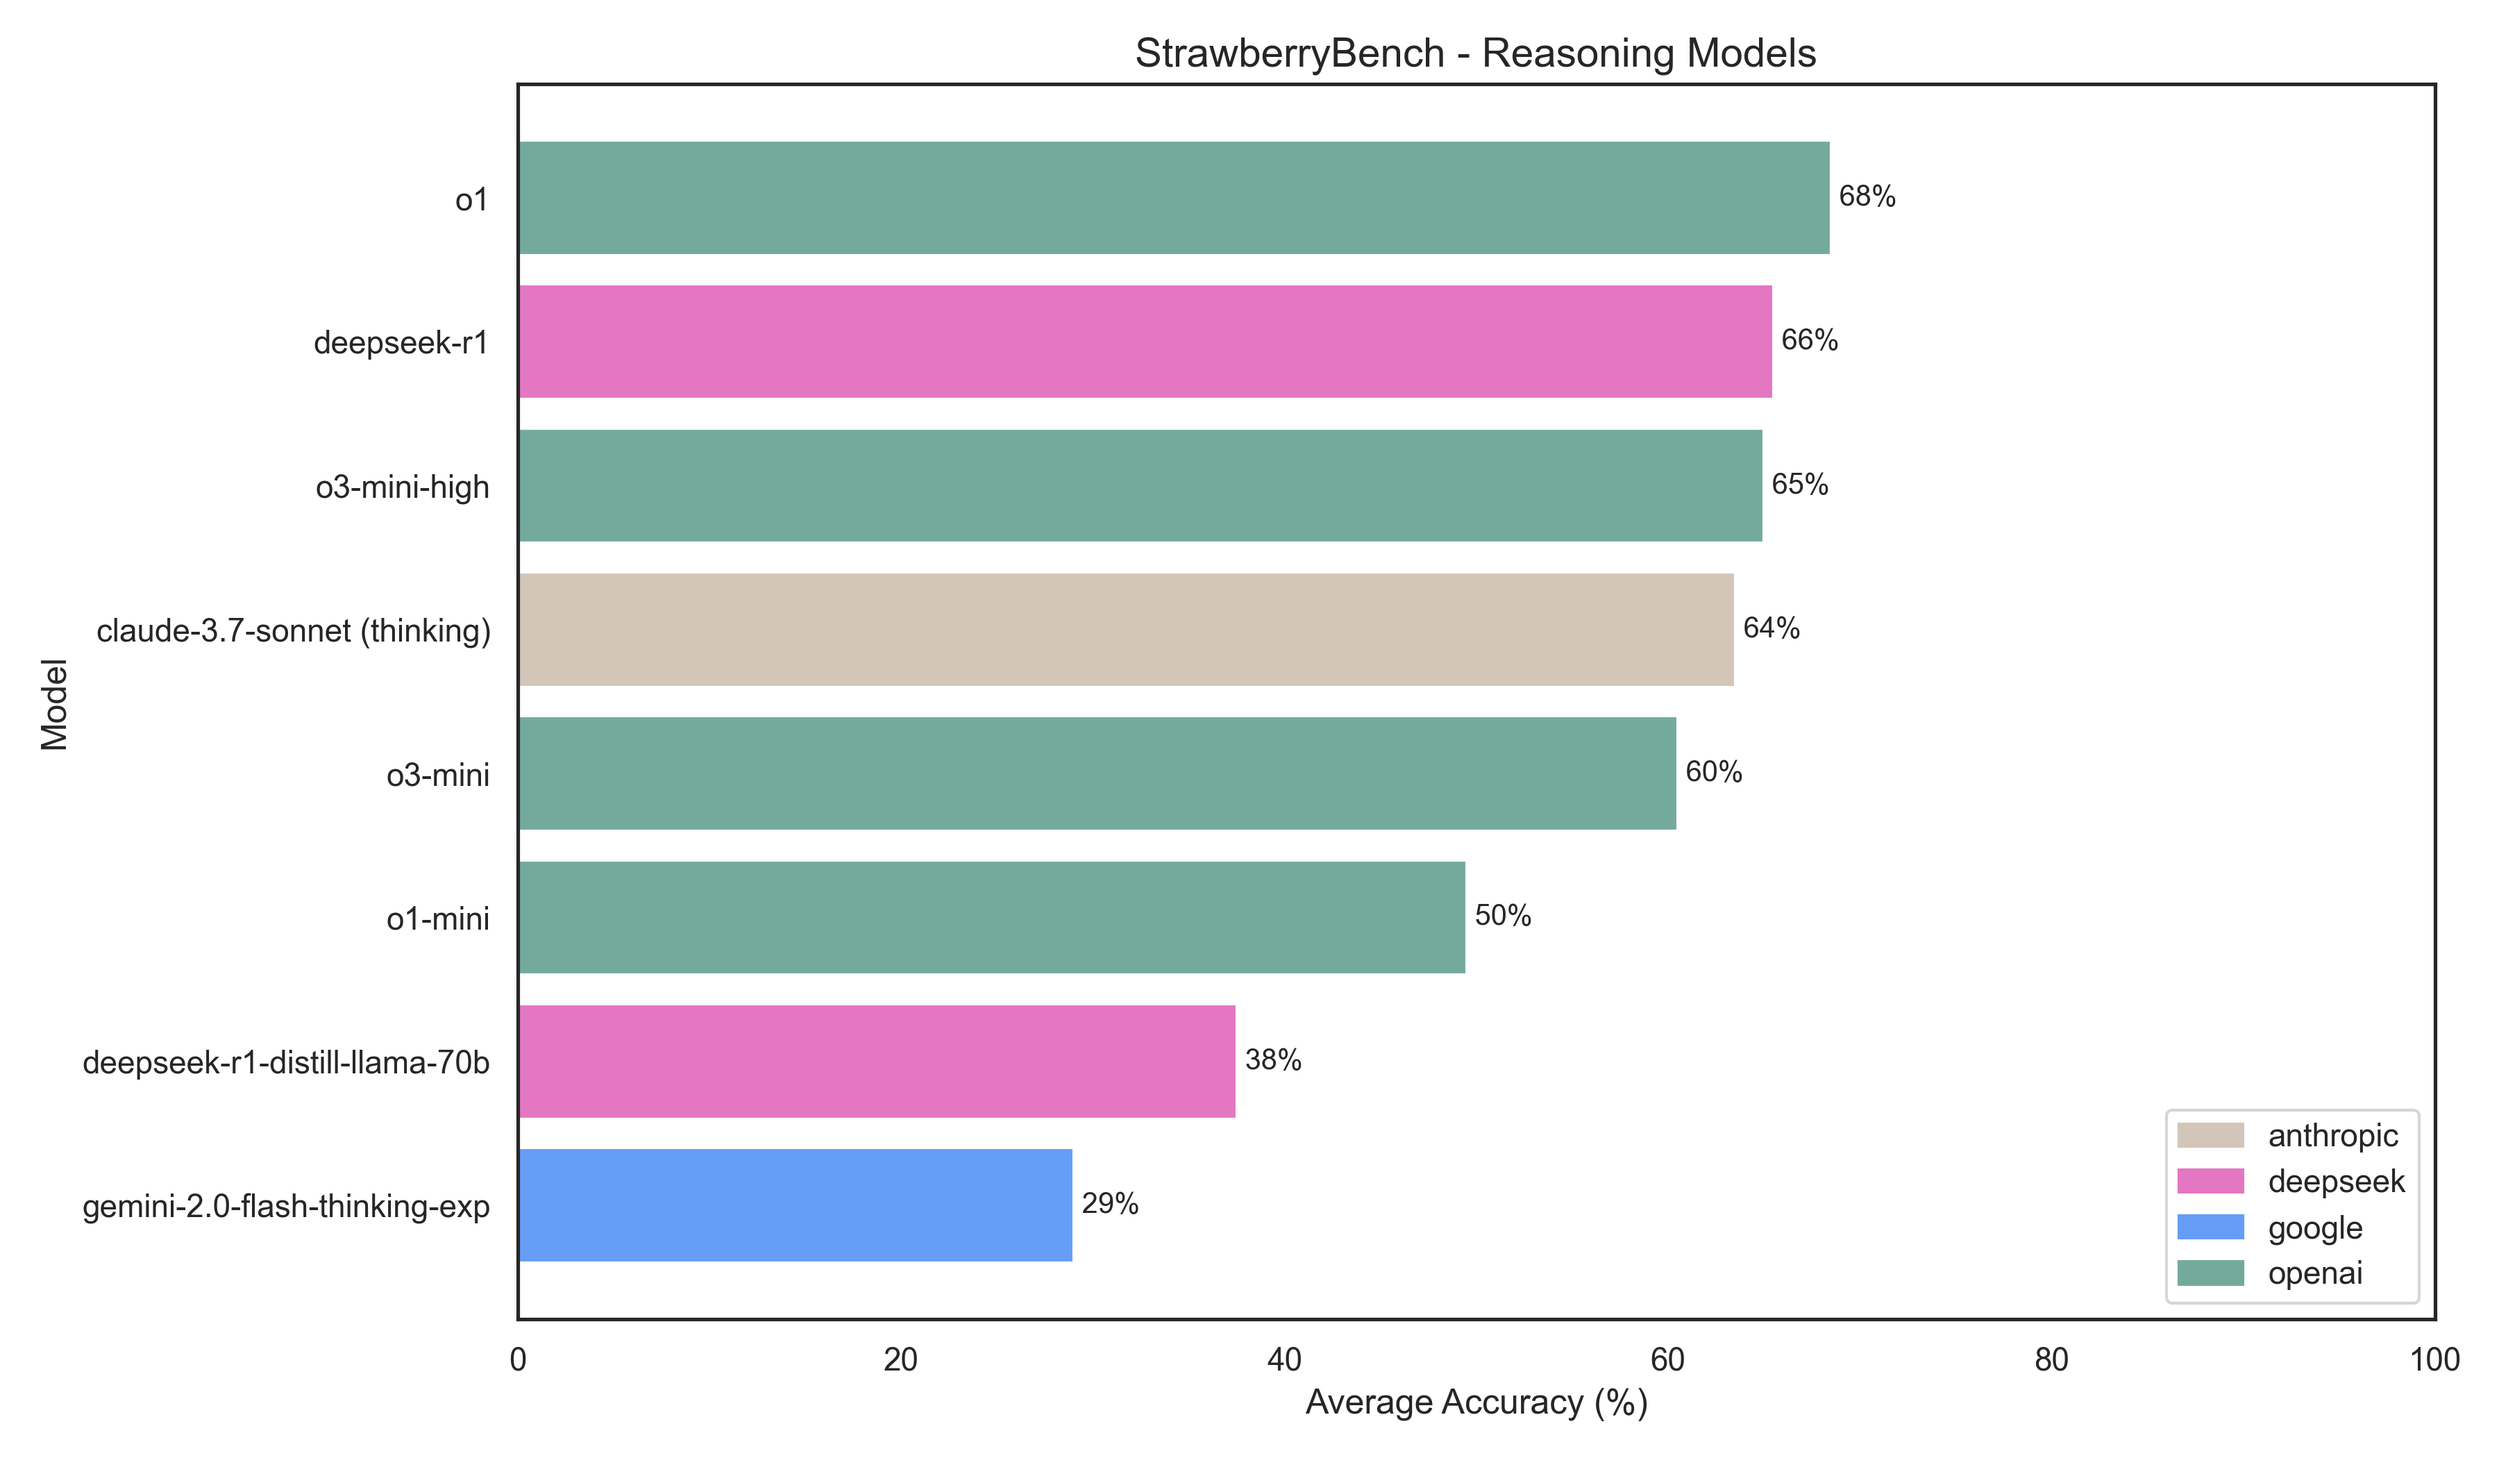
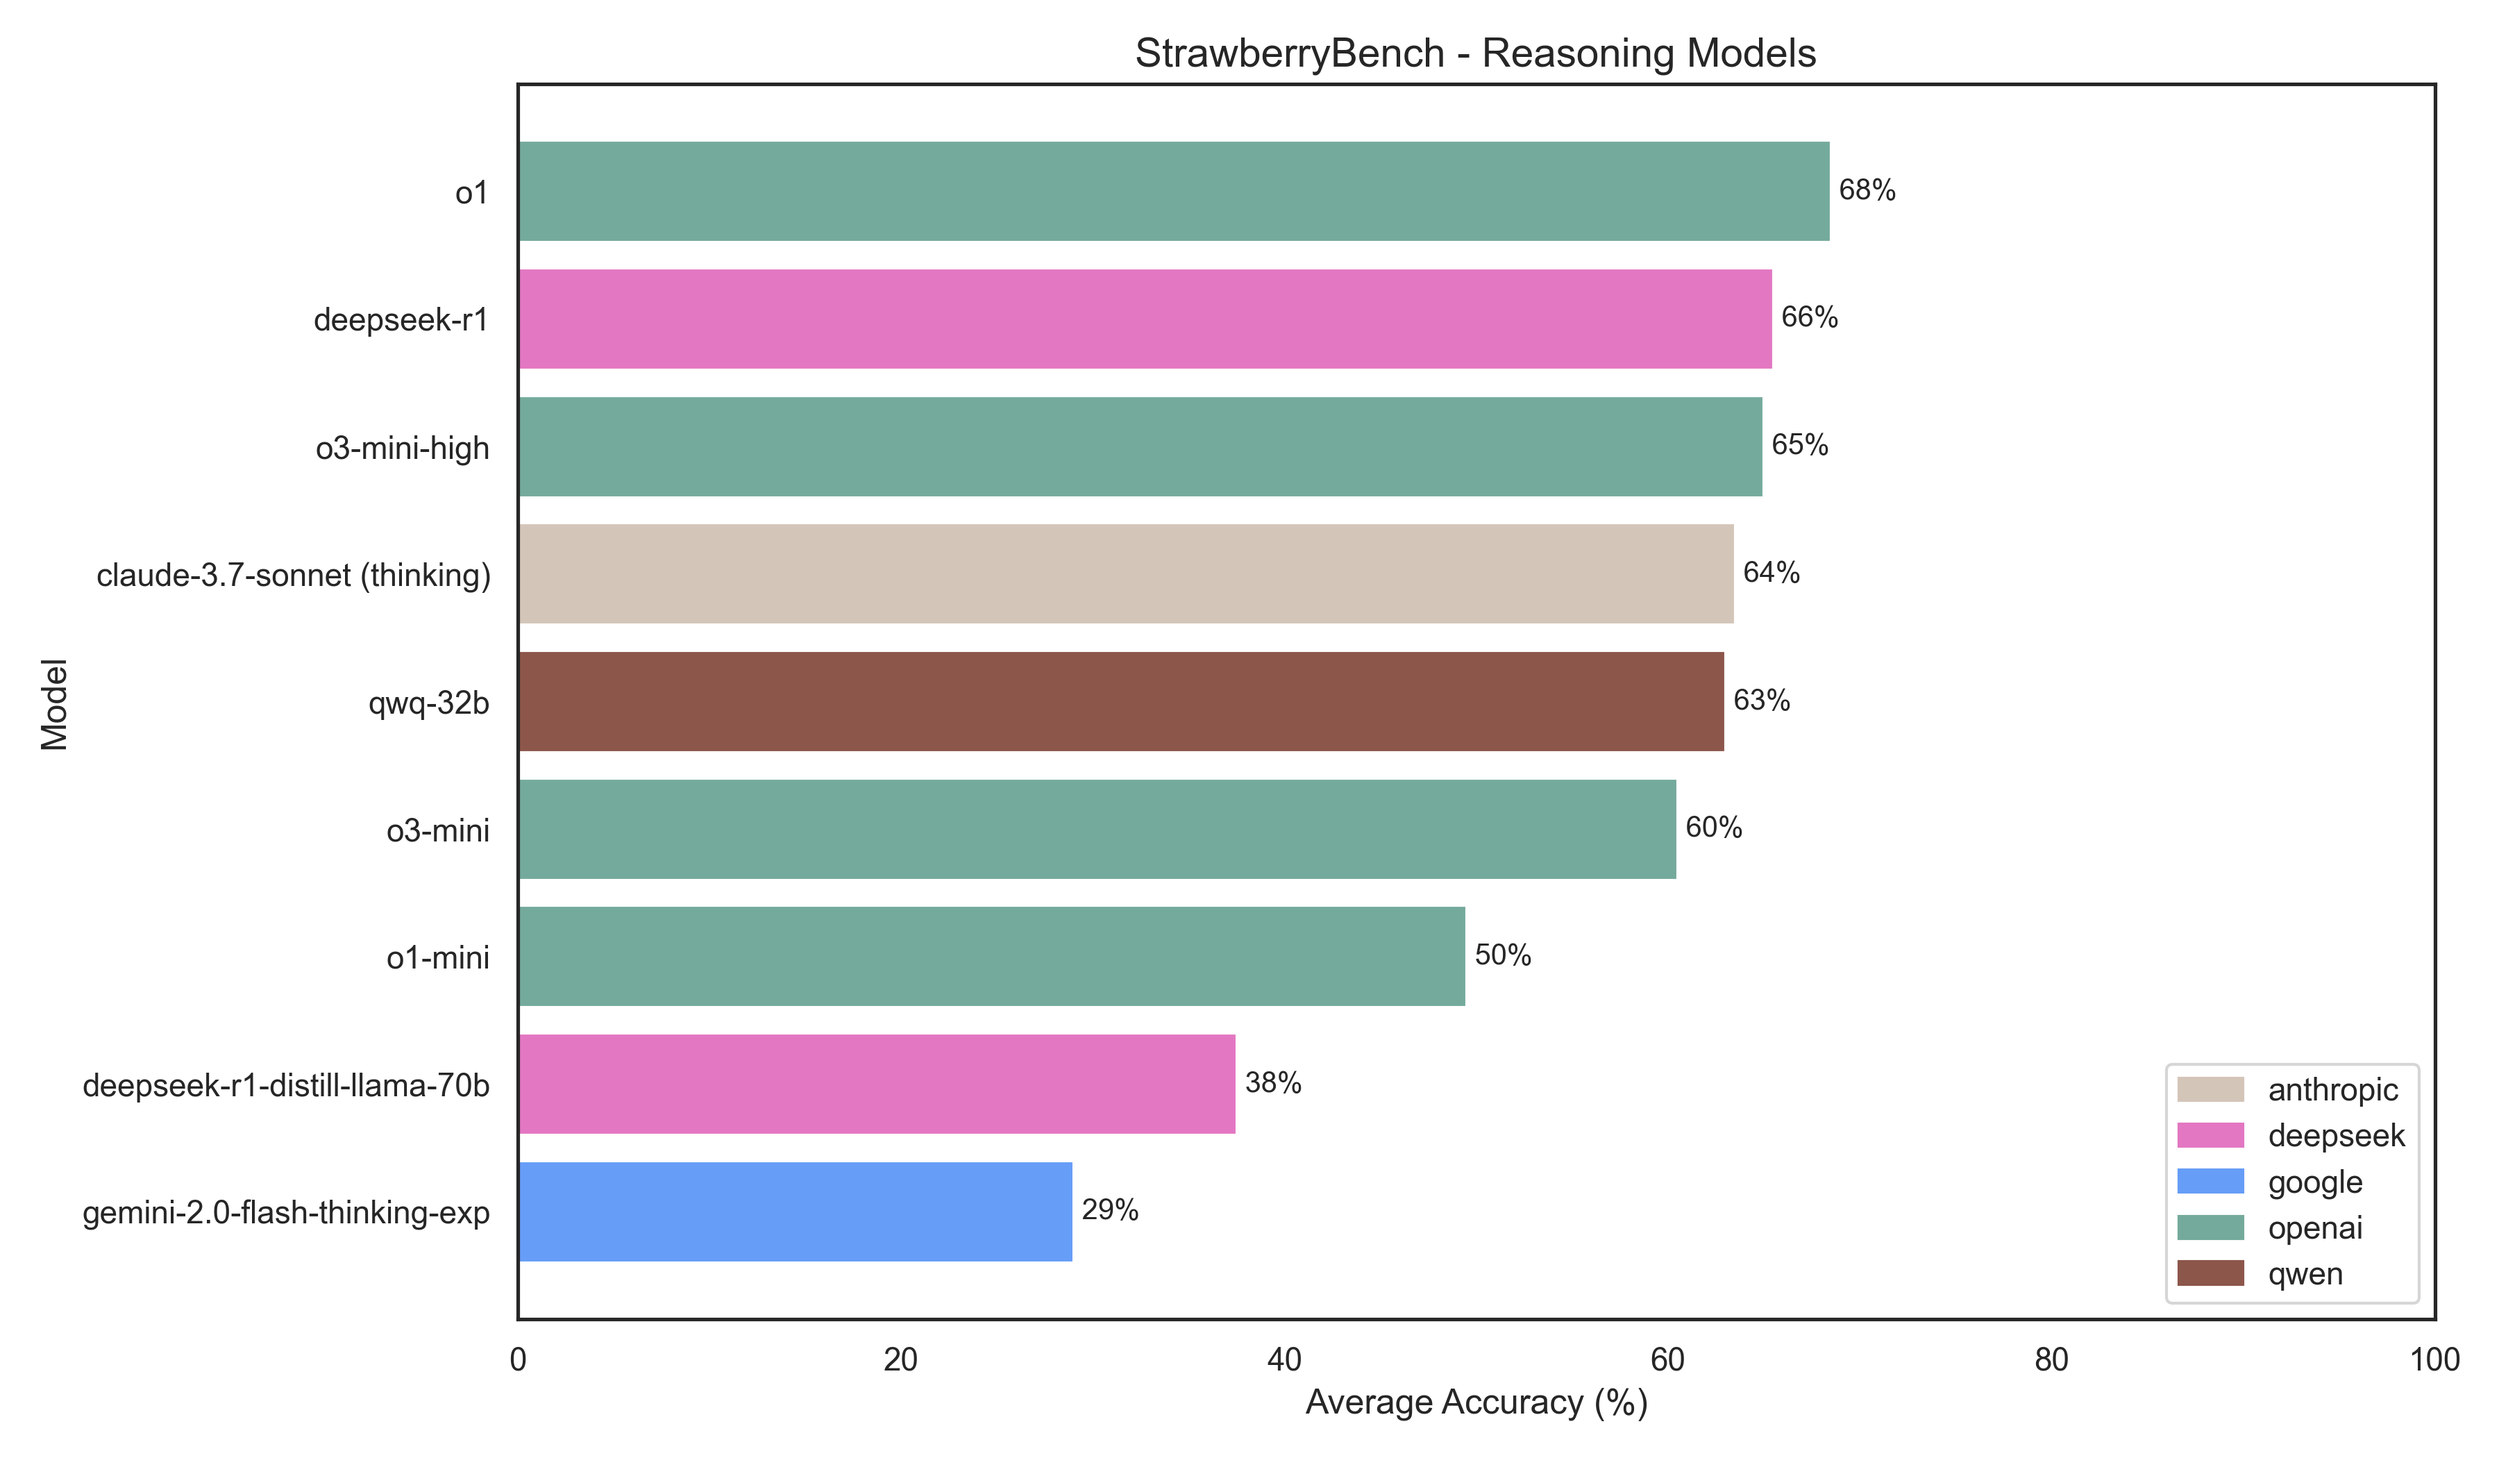
Add qwen/qwq-32b

diff --git a/config.py b/config.py
@@ -45,6 +45,7 @@ MODELS = [
     # { "name": "openai/o1-mini", "client": "openai", "type": "reasoning" },
     # { "name": "openai/o3-mini", "client": "openai", "type": "reasoning" },
     # { "name": "openai/o3-mini-high", "client": "openai", "type": "reasoning" },
+    # { "name": "qwen/qwq-32b", "client": "openrouter", "type": "reasoning", "settings": {"rate_limit": 30} },
 ]
 
 # The additional characters to insert in the word

diff --git a/README.md b/README.md
@@ -31,7 +31,7 @@ It reveals weaknesses in reasoning capabilities, highlighting areas for improvem
 - Models providing direct answers without reasoning tend to perform worse.
 - StrawberryBench results strongly correlate with other public benchmarks, a surprising and notable finding.
 
-## 🍓 Results (2025-02-28)
+## 🍓 Results (2025-03-06)
 
 ### Leaderboard
 
